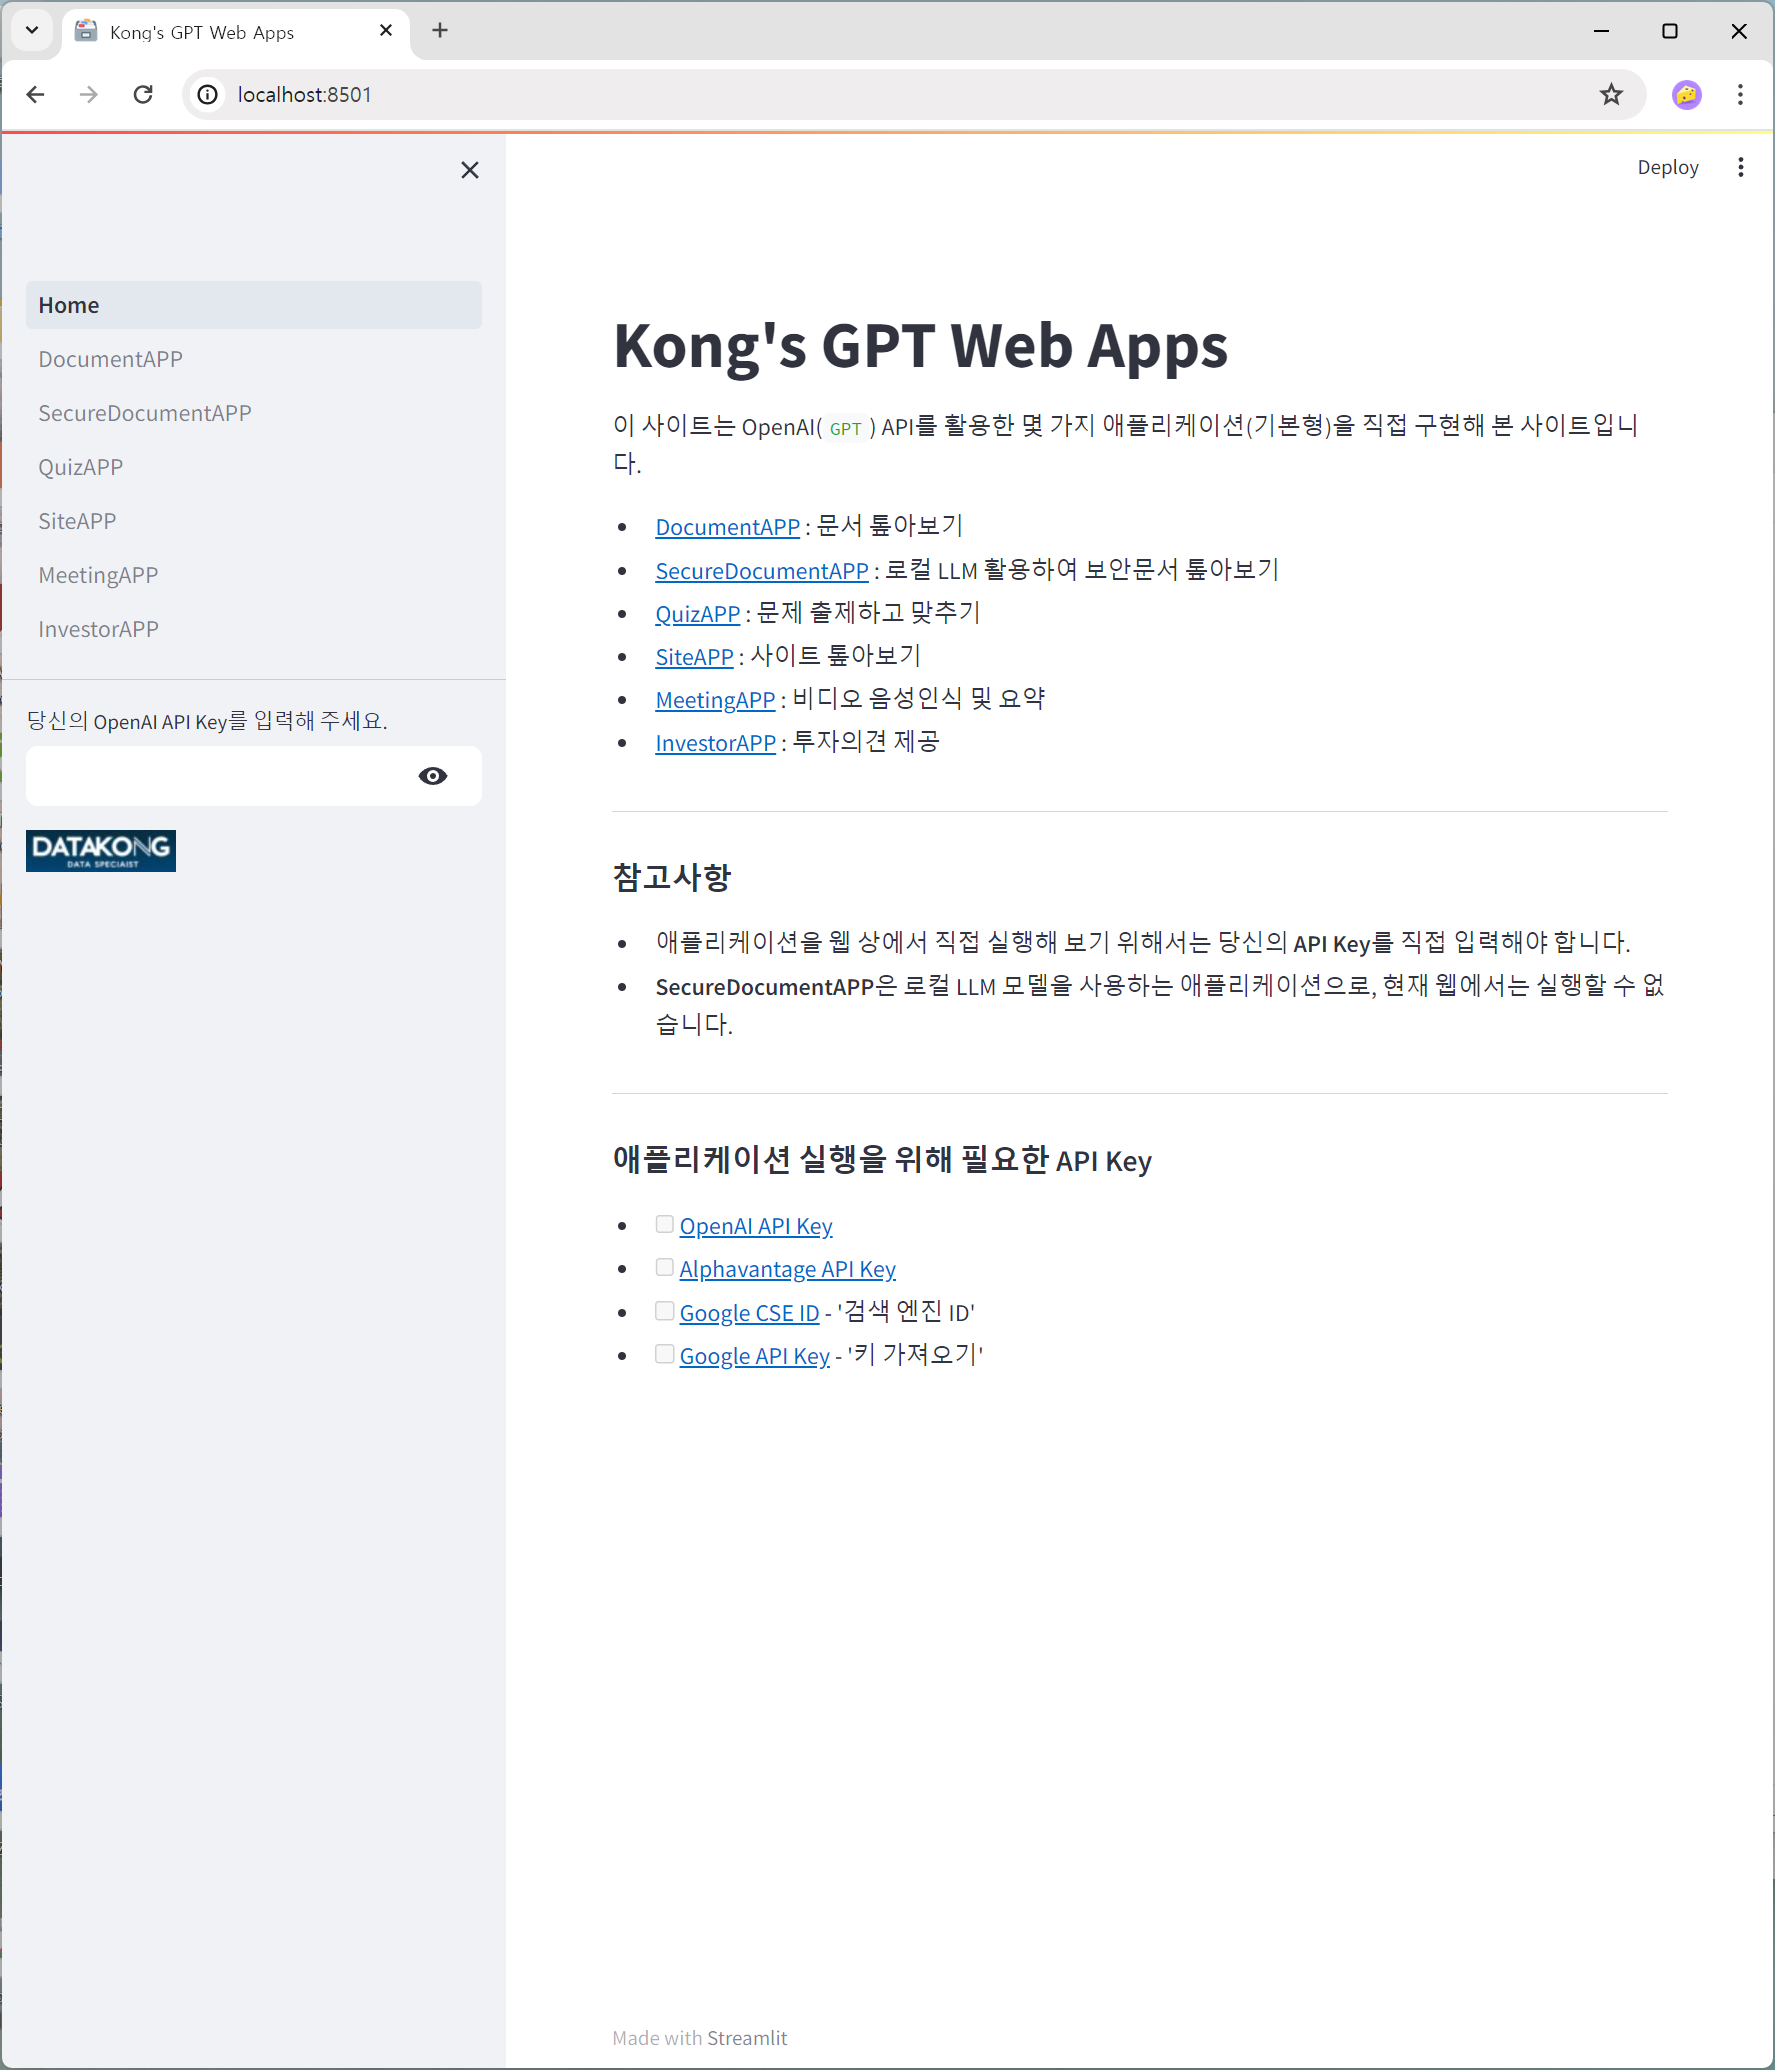
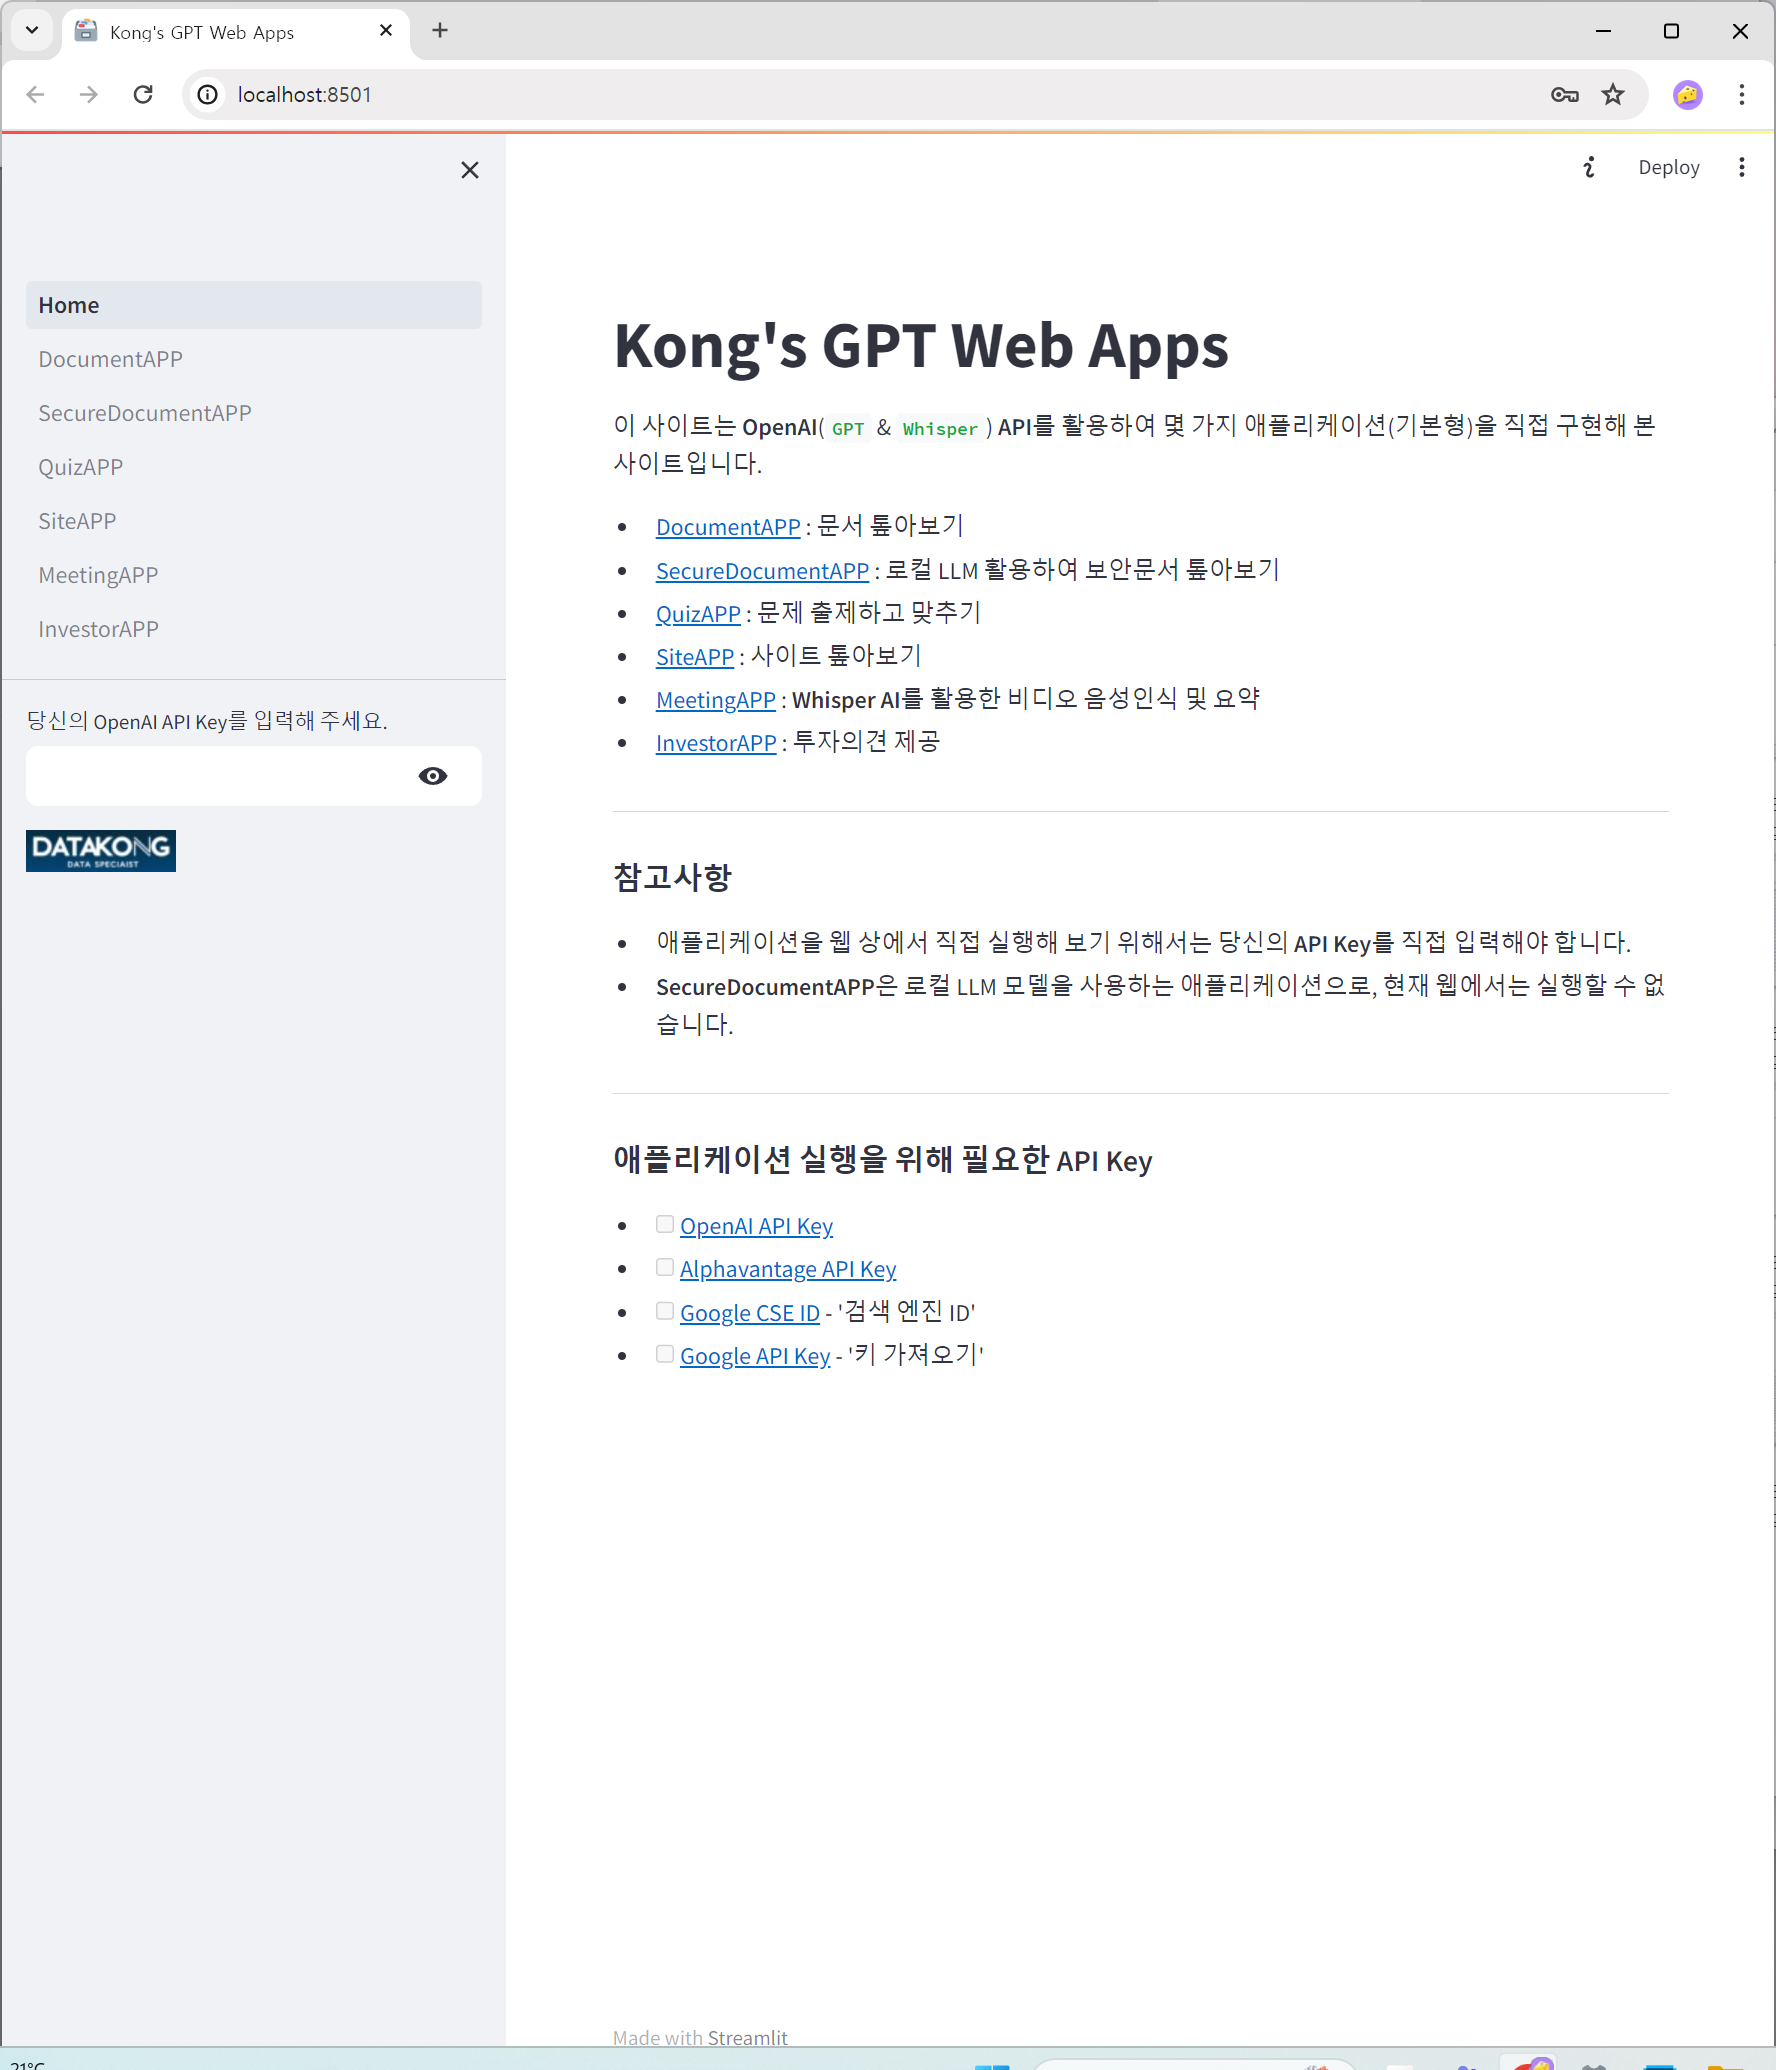
Specify api key codes

diff --git a/Home.py b/Home.py
@@ -19,15 +19,15 @@ st.markdown(
     """
 # Kong's GPT Web Apps
 
-이 사이트는 OpenAI(`GPT`) API를 활용한 몇 가지 애플리케이션(기본형)을 직접 구현해 본 사이트입니다.   
+이 사이트는 **OpenAI**(**`GPT`** & **`Whisper`**) **API**를 활용하여 몇 가지 애플리케이션(기본형)을 직접 구현해 본 사이트입니다.   
   
   
   
 - <a href="/DocumentAPP" target="_self">DocumentAPP</a> : 문서 톺아보기 
-- <a href="/SecureDocumentAPP" target="_self">SecureDocumentAPP</a> : 로컬 LLM 활용하여 보안문서 톺아보기 
+- <a href="/SecureDocumentAPP" target="_self">SecureDocumentAPP</a> : 로컬 LLM 활용한 보안문서 톺아보기 
 - <a href="/QuizAPP" target="_self">QuizAPP</a> : 문제 출제하고 맞추기 
 - <a href="/SiteAPP" target="_self">SiteAPP</a> : 사이트 톺아보기 
-- <a href="/MeetingAPP" target="_self">MeetingAPP</a> : 비디오 음성인식 및 요약   
+- <a href="/MeetingAPP" target="_self">MeetingAPP</a> : **Whisper AI**를 활용한 비디오 음성인식 및 요약   
 - <a href="/InvestorAPP" target="_self">InvestorAPP</a> : 투자의견 제공    
 
 -----    

diff --git a/pages/06_InvestorAPP.py b/pages/06_InvestorAPP.py
@@ -37,17 +37,12 @@ st.markdown("""
     
             """)
 
-# openai_api_key = st.secrets["OPENAI_API_KEY"]
-# alphavantage_api_key = st.secrets["ALPHAVANTAGE_API_KEY"]
-# GOOGLE_CSE_ID = st.secrets["GOOGLE_CSE_ID"]
-# GOOGLE_API_KEY = st.secrets["GOOGLE_API_KEY"]
-
 # ------------------------------------------------------------------------------------------------
 
 
 with st.sidebar:
     st.session_state.api_key = st.text_input("당신의 OpenAI API Key를 입력해 주세요.", type="password") 
-OPENAI_API_KEY = st.session_state.api_key
+openai_api_key = st.session_state.api_key
 
 # ------------------------------------------------------------------------------------------------
 
@@ -68,6 +63,7 @@ GOOGLE_API_KEY = st.session_state.GOOGLE_API_KEY
 
 llm = ChatOpenAI(
     temperature = 0.1,
+    api_key = openai_api_key, 
 )
 
 class StockMarketSymbolSearchToolArgsSchema(BaseModel):

diff --git a/pages/05_MeetingAPP.py b/pages/05_MeetingAPP.py
@@ -43,8 +43,8 @@ st.markdown("""
 with st.sidebar:
     st.session_state.api_key = st.text_input("당신의 OpenAI API Key를 입력해 주세요.", type="password") 
 
-OPENAI_API_KEY = st.session_state.api_key
-    
+openai_api_key = st.session_state.api_key
+openai.api_key = st.session_state.api_key    
 
 # ------------------------------------------------------------------------------------------------
 
@@ -66,10 +66,12 @@ class ChatCallbackHandler(BaseCallbackHandler):
 
 llm = ChatOpenAI(
     temperature = 0.1,
+    api_key = openai_api_key, 
 )
 
 chat_llm = ChatOpenAI(
     temperature = 0.1,
+    api_key = openai_api_key, 
     streaming = True,
     callbacks = [ChatCallbackHandler()],
 )

diff --git a/pages/01_DocumentAPP.py b/pages/01_DocumentAPP.py
@@ -26,7 +26,7 @@ st.set_page_config(
 with st.sidebar:
     st.session_state.api_key = st.text_input("당신의 OpenAI API Key를 입력해 주세요.", type="password") 
 
-OPENAI_API_KEY = st.session_state.api_key
+openai_api_key = st.session_state.api_key
 
 # ------------------------------------------------------------------------------------------------
 
@@ -69,6 +69,7 @@ class ChatCallbackHandler(BaseCallbackHandler):
 
 llm = ChatOpenAI(
     temperature = 0.1, 
+    api_key = openai_api_key, 
     streaming = True,
     callbacks = [
         ChatCallbackHandler()

diff --git a/pages/03_QuizAPP.py b/pages/03_QuizAPP.py
@@ -23,13 +23,14 @@ st.title("QuizAPP")
 with st.sidebar:
     st.session_state.api_key = st.text_input("당신의 OpenAI API Key를 입력해 주세요.", type="password") 
 
-OPENAI_API_KEY = st.session_state.api_key
+openai_api_key = st.session_state.api_key
     
 
 # ------------------------------------------------------------------------------------------------
 
 llm = ChatOpenAI(
     temperature = 0.1, 
+    api_key = openai_api_key, 
     model = "gpt-3.5-turbo-1106", 
     streaming = True, 
     callbacks = [

diff --git a/pages/04_SiteAPP.py b/pages/04_SiteAPP.py
@@ -24,13 +24,14 @@ st.title("SiteAPP")
 with st.sidebar:
     st.session_state.api_key = st.text_input("당신의 OpenAI API Key를 입력해 주세요.", type="password") 
 
-OPENAI_API_KEY = st.session_state.api_key
+openai_api_key = st.session_state.api_key
 
 # ------------------------------------------------------------------------------------------------
 
 
 llm = ChatOpenAI(
         temperature = 0.1, 
+        api_key = openai_api_key, 
         streaming = True
         )
 
